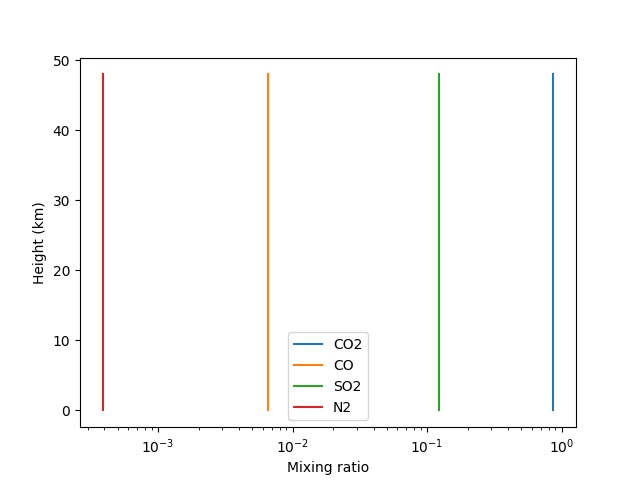
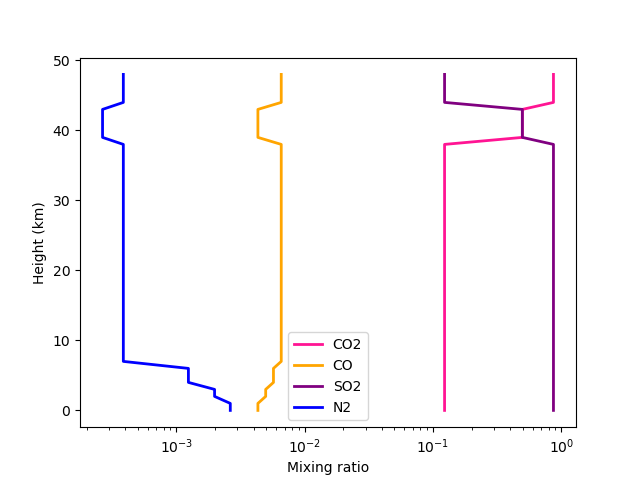
Adding Final Project Files

diff --git a/chem_eq/Chem_eq.py b/chem_eq/Chem_eq.py
@@ -147,13 +147,13 @@ for i in range(0, len(height)):
     mr_eq[i,-1] = 1 - np.sum(mr_eq[i,0:-1])       
 print("mr eq:", mr_eq[0,:])
 
+colors = ['deeppink', 'orange', 'purple', 'blue']
 # plot mr profiles for main species at chemcial equilibrium
 fig, ax = plt.subplots()
 ax.set_xscale('log')
 for i in range(0,len(species_all)):
-    ax.plot(mr_eq[:,i], height, label = species_data['species'][species_all[i]-1]['name'])
+    ax.plot(mr_eq[:,i], height, color = colors[i], linewidth = 2,  label = species_data['species'][species_all[i]-1]['name'])
 ax.set_xlabel("Mixing ratio")
 ax.set_ylabel('Height (km)')
 plt.legend()
-plt.savefig('Equilibrium.png')
 plt.show()
